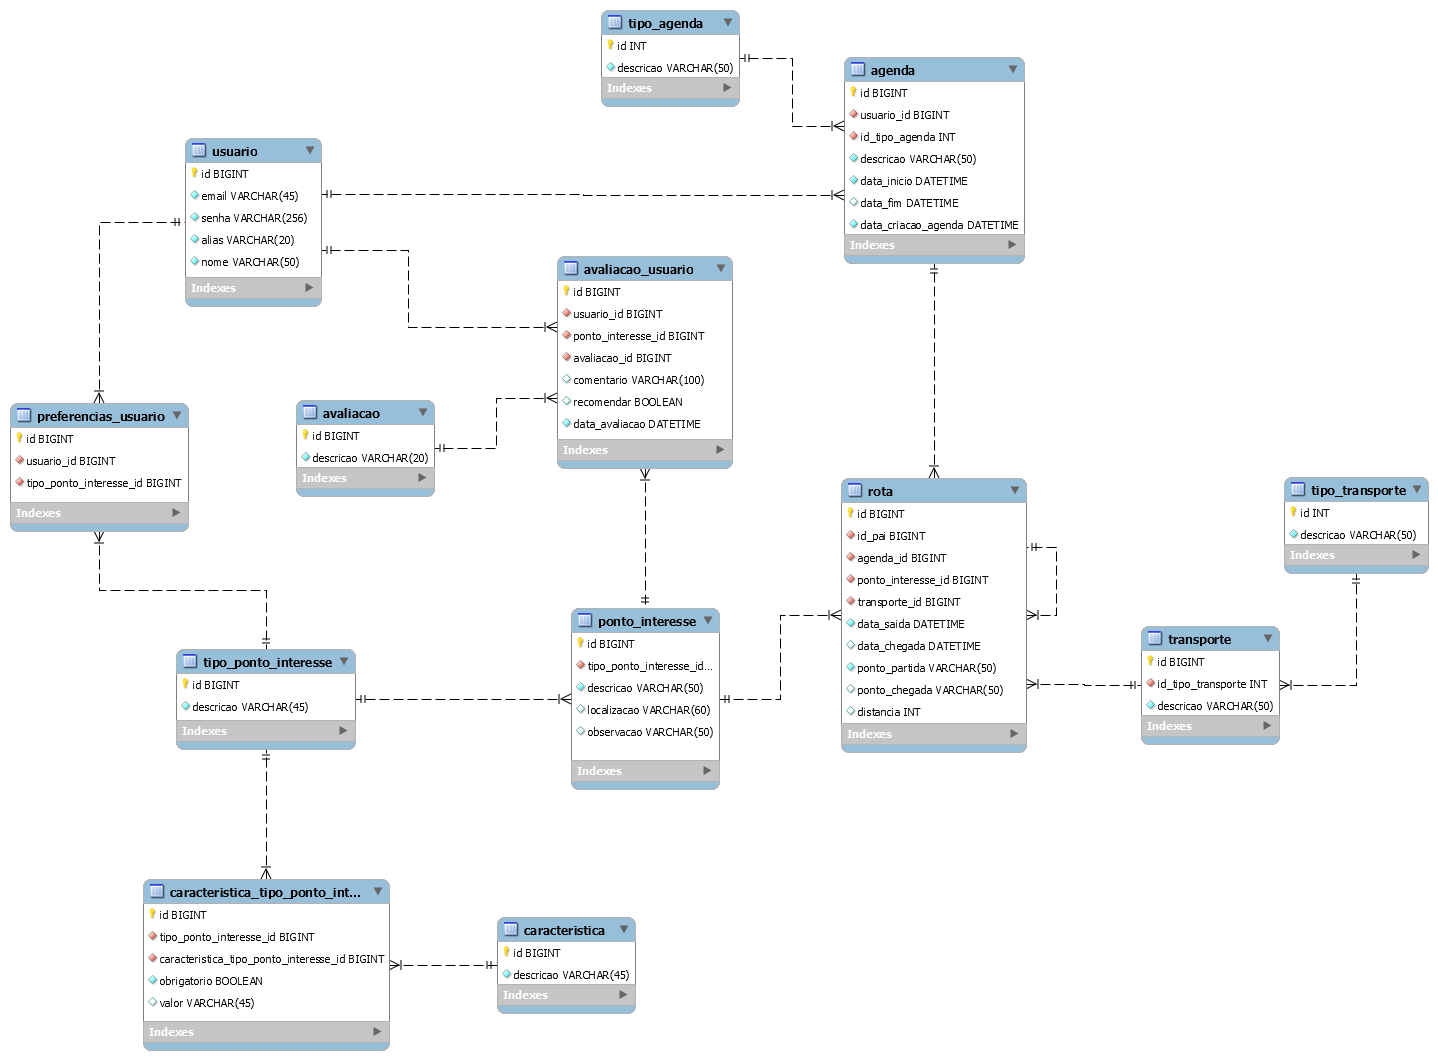
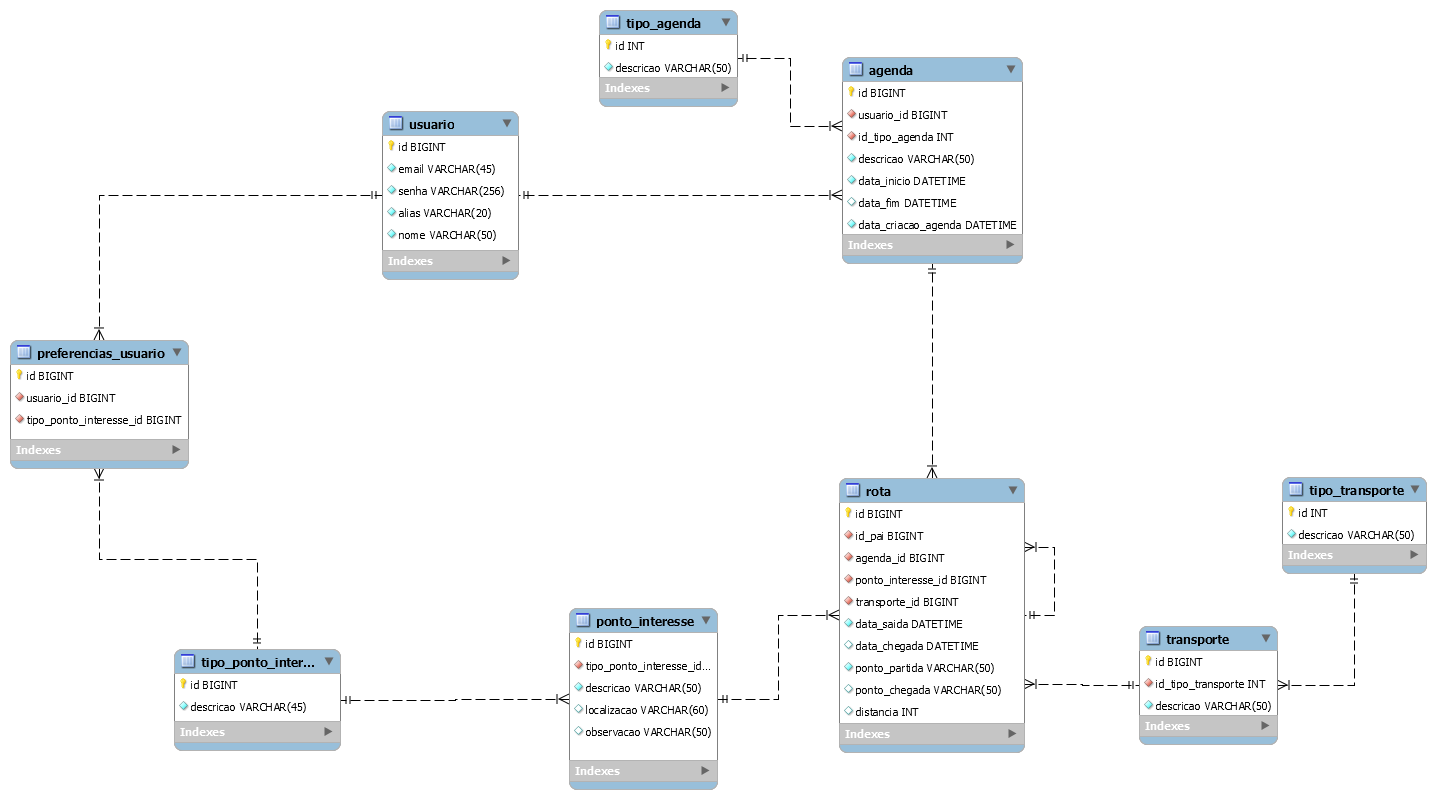
Alteração Diagrama de Classes
- Alteração do diagrama de classes
- Alteração do EER
-Alteração do Caso de Uso Login

diff --git a/documentacao/documentoweb2015/05-documentacao-sistema/5.1-requisitos/5.1.2 - Modelos de Caso de Uso/modelos de caso de uso.html b/documentacao/documentoweb2015/05-documentacao-sistema/5.1-requisitos/5.1.2 - Modelos de Caso de Uso/modelos de caso de uso.html
@@ -166,76 +166,155 @@ th, td {
     </tr>
     
 </table>
+<br><br> 	
 
-<br><br>
-       <b>FA02</b> - Usuário escolhe conectar-se utilizando conta do Google+
-        
-        <table>
+  <b>FA02</b> -  Usuário escolhe conectar-se utilizando conta do Twitter
+    <table>
     <tr>
-        <td><b>PASSO</b></td>
-        <td><b>INTERAÇÃO DO ATOR</b></td>
+        <td>Passo</td>
+        <td>Interação do Ator</td>
     </tr>
     <tr>
         <td>1</td>
-        <td>Sistema apresenta a tela de login</td>
+        <td>Sistema Apresenta a tela de login</td>
     </tr>
     <tr>
         <td>2</td>
-        <td>Usuário decide conectar-se utilizando conta do Google+ </td>
+        <td>Usuário decide conectar-se utilizando conta do Twitter</td>
     </tr>
     <tr>
-        <td>3</td>
-        <td>Sistema exibe tela de Login da conta do Google+</td>
+    	<td>3</td>
+        <td>Sistema exibe tela de Login da conta do Twitter</td>
     </tr>
     <tr>
-        <td>4</td>
-        <td>Usuário informa e-mail e senha da conta do Google+</td>
+    	<td>4</td>
+        <td>Usuário informa e-mail e senha da conta do Twitter</td>
     </tr>
     <tr>
-        <td>5</td>
-        <td>Sistema solicita autorização para utilizar as informações do Google+</td>
+    	<td>5</td>
+        <td>Sistema solicita autorização para utilizar as informações do Twitter</td>
     </tr>
     <tr>
-        <td>6</td>
+    	<td>6</td>
         <td>Sistema recupera informações para que a conta seja habilitada</td>
     </tr>
     <tr>
-        <td>7</td>
-        <td>Sistema redireciona usuário para tela Pontos de Interesse</td>
+    	<td>7</td>
+        <td>Sistema re-direciona usuário para tela Pontos de Interesse</td>
     </tr>
     <tr>
-        <td>8</td>
-        <td>O fluxo alternativo é encerrado</td>
+    	<td>8</td>
+        <td>O fluxo alternativo e encerrado</td>
     </tr>
-    
 </table>
+<br><br> 	
 
-<br><br>
-       <b>FA03</b> - Usuário escolhe Pular Cadastro
-        
-        <table>
+  <b>FA03</b> - Usuário escolhe conectar-se utilizando conta do Google+
+    <table>
     <tr>
-        <td><b>PASSO</b></td>
-        <td><b>INTERAÇÃO DO ATOR</b></td>
+        <td>Passo</td>
+        <td>Interação do Ator</td>
     </tr>
     <tr>
         <td>1</td>
-        <td>Sistema apresenta a tela de login</td>
+        <td>Sistema Apresenta a tela de login</td>
     </tr>
     <tr>
         <td>2</td>
-        <td>Usuário seleciona botão Pular </td>
+        <td>Usuário decide conectar-se utilizando conta do Google+</td>
     </tr>
     <tr>
-        <td>3</td>
-        <td>Sistema exibe tela Pontos de Interesse</td>
+    	<td>3</td>
+        <td>Sistema exibe tela de Login da conta do Google+</td>
     </tr>
     <tr>
-        <td>4</td>
-        <td>O fluxo alternativo é encerrado</td>
+    	<td>4</td>
+        <td>Usuário informa e-mail e senha da conta do Google+</td>
     </tr>
-    
-    
+    <tr>
+    	<td>5</td>
+        <td>Sistema solicita autorização para utilizar as informações do Google+</td>
+    </tr>
+    <tr>
+    	<td>6</td>
+        <td>Sistema recupera informações para que a conta seja habilitada</td>
+    </tr>
+    <tr>
+    	<td>7</td>
+        <td>Sistema re-direciona usuário para tela Pontos de Interesse</td>
+    </tr>
+    <tr>
+    	<td>8</td>
+        <td>O fluxo alternativo e encerrado</td>
+    </tr>
+
+</table>
+<br><br> 	
+
+  <b>FA04</b> - Usuário escolhe conectar-se utilizando conta do Facebook
+    <table>
+    <tr>
+        <td>Passo</td>
+        <td>Interação do Ator</td>
+    </tr>
+    <tr>
+        <td>1</td>
+        <td>Sistema Apresenta a tela de login</td>
+    </tr>
+    <tr>
+        <td>2</td>
+        <td>Usuário decide conectar-se utilizando conta do Facebook</td>
+    </tr>
+    <tr>
+    	<td>3</td>
+        <td>Sistema exibe tela de Login da conta do Facebook</td>
+    </tr>
+    <tr>
+    	<td>4</td>
+        <td>Usuário informa e-mail e senha da conta do Facebook</td>
+    </tr>
+    <tr>
+    	<td>5</td>
+        <td>Sistema solicita autorização para utilizar as informações do Facebook</td>
+    </tr>
+    <tr>
+    	<td>6</td>
+        <td>Sistema recupera informações para que a conta seja habilitada</td>
+    </tr>
+    <tr>
+    	<td>7</td>
+        <td>Sistema re-direciona usuário para tela Pontos de Interesse</td>
+    </tr>
+    <tr>
+    	<td>8</td>
+        <td>O fluxo alternativo e encerrado</td>
+    </tr>
+
+</table>
+<br><br> 	
+
+  <b>FA05</b> - Usuário escolhe Pular Cadastro
+    <table>
+    <tr>
+        <td>Passo</td>
+        <td>Interação do Ator</td>
+    </tr>
+    <tr>
+        <td>1</td>
+        <td>Sistema Apresenta a tela de login</td>
+    </tr>
+    <tr>
+        <td>2</td>
+        <td>Usuário seleciona botão Pular</td>
+    </tr>
+      <tr>
+    	<td>3</td>
+        <td>Sistema re-direciona usuário para tela Pontos de Interesse</td>
+    </tr>
+    <tr>
+    	<td>4</td>
+        <td>O fluxo alternativo e encerrado</td>
+    </tr>    
 </table>
 
 

diff --git a/documentacao/documentoweb2015/05-documentacao-sistema/index.html b/documentacao/documentoweb2015/05-documentacao-sistema/index.html
@@ -39,13 +39,13 @@
 			  <!-- Default panel contents -->
 			  <div class="panel-heading"><h1>Documentação de Software do projeto Partiu!</h1></div>
 			  <div class="panel-body">
-			  	<span><a href="#">05-doc-sistema</a></span>
+			  	<span><a href="#">05-documentacao-sistema</a></span>
 			  </div>
 
 			  <!-- List group -->
 			  <ul class="list-group">
 				<li class="list-group-item">
-					Este documento tem todo o conteúdo explicativo do sistema para poder facilitar o entendimento completo do aplicativo adquirindo conhecimento e especificação para realizar evoluções e manutenções futuras. 	
+					Neste documento encontram-se as documentações técnicas do software desenvolvido, incluindo o levantamento de requisitos, casos de uso e os diagramas de classe e o modelo de entidade relacionamento (EER), entre outros documentos. 	
 					<br>
 					<a href=><b>5.1-Requisitos</b></a> 
 					<br>
@@ -57,7 +57,7 @@
 					<br> 
 					<a href=><b>5.2-Projeto</b></a>
 					<br>
-					<a href="5.2-projeto\5.2.1- Modelo de Classes\diagrama de classes.html">5.2.1 - Modelo de Classes</a>
+					<a href="5.2-projeto\5.2.1- Modelo de Classes\diagrama de classes.html">5.2.1 - Diagrama de Classes</a>
 					<br>
 					<a href="5.2-projeto\5.2.2 - Modelo ER do banco de dados\modelo eer.html">5.2.2 - Modelo E/R do banco de dados</a>
 					<br>

diff --git a/documentacao/documentoweb2015/05-documentacao-sistema/5.2-projeto/5.2.2 - Modelo ER do banco de dados/modelo eer.html b/documentacao/documentoweb2015/05-documentacao-sistema/5.2-projeto/5.2.2 - Modelo ER do banco de dados/modelo eer.html
@@ -45,14 +45,17 @@
 			  <!-- List group -->
 			  <ul class="list-group">
 				<li class="list-group-item">
-			              <h1>Diagrama de Classas</h1>
-                            
-			              A imagem a seguir consiste em um diagrama de classes do aplicativo Partiu!
-			              <br><br><br>
-			              <img src="partiu-eer.png"/>
+			              <h1>Diagrama de Entidade e Relacionamento</h1>
+                             <br>
+			              Abaixo o diagrama de entidade e relacionamento (EER) do aplicativo Partiu!
+			              <br>
+						  
+						   A tabela Rota foi desenhada com recursividade possibilitando ao usuário registrar trechos entre o ponto inicial e o ponto final do trajeto.  
+						<br>
+			            <br>
+                          
+			             <p style="text-align:left;"></p><img src="partiu-eer.png" width="999" height="550" >
 			              
-				
-							
 							
 							
                              

diff --git a/documentacao/documentoweb2015/05-documentacao-sistema/5.2-projeto/5.2.1- Modelo de Classes/diagrama de classes.html b/documentacao/documentoweb2015/05-documentacao-sistema/5.2-projeto/5.2.1- Modelo de Classes/diagrama de classes.html
@@ -46,17 +46,17 @@
 			  <!-- List group -->
 			  <ul class="list-group">
 				<li class="list-group-item">
-			              <h1>Diagrama de Classas</h1>
-			              <br><br><br>
+			              <h1>Diagrama de Classes</h1>
+			              <br><br>
 
-			              A imagem a seguir consiste em um diagrama de classes do aplicativo Partiu!
-
+			              Abaixo o Diagrama de Classes do Projeto Partiu!  
+						<br>
 			            <br>
-                          
-			             <img src="DiagramaClassesPartiu.jpg" >
+                        
+			             <p style="text-align:left;"></p><img src="DiagramaClassesPartiu.jpg" width="999" height="550" >
 			              
 			              
-			              
+			         
 				
 							
 							

diff --git a/documentacao/documentoweb2015/06-tutorial/index.html b/documentacao/documentoweb2015/06-tutorial/index.html
@@ -45,9 +45,9 @@
 			  <!-- List group -->
 			  <ul class="list-group">
 				<li class="list-group-item">
-					Neste capítulo temos o tutorial de uso do software, deixando explicito  o funcionamento de todas telas com suas respectivas funcionalidades, apresentando também as restrições existentes para acesso a cada interação, não deixando assim o usuário obter qualquer utilização indevida ou errada. 	
+					O tutorial do software Partiu! foi elaborado para orientar os "primeiros passos" do usuário em sua experiência com o uso do software Partiu!	
 					<br>
-					<a href="Partiu.pptx">Tutorial</a>		    	
+					<a href="Partiu.pptx">6.1-tutorial</a>		    	
 			    </li>
 			  </ul>
 
